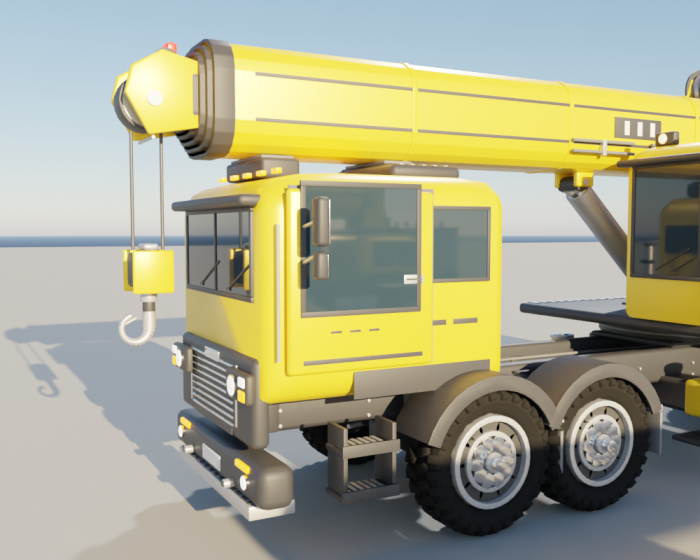
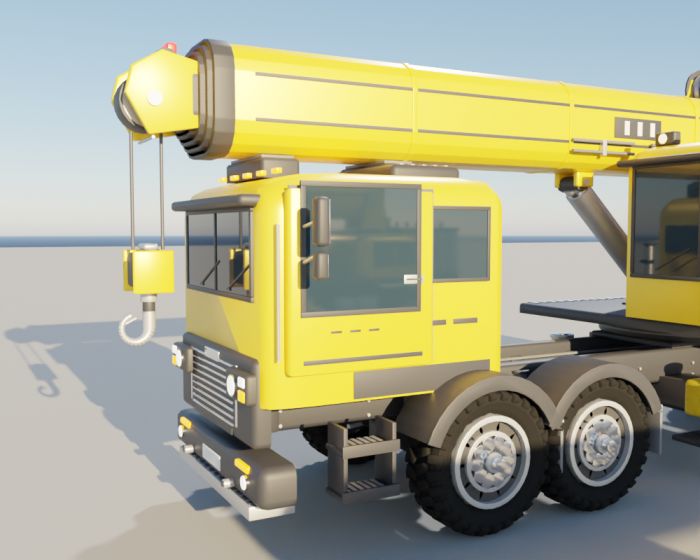
Zeriav: diely, ktore lezia na inych dieloch (kabina, kryt, nasavanie, klimatizacia, zavazie, opierky, podlozky, svetla), maju rovne nezaoblene dosadacie plochy
Claude-Session: https://claude.ai/code/session_01LJyXRKJzkeHGHPvKuFtRQJ

diff --git a/Blender/zeriav_low_poly.py b/Blender/zeriav_low_poly.py
@@ -732,20 +732,53 @@ def slab(bm, pts, t, mat, bev=0.0):
     finish_shape(bm, faces, mat, bev)
 
 
-def loft_rr(bm, stations, mat, n=3):
-    # hladke teleso z priecnych rezov (zaoblenych obdlznikov): stations = [(x, y0, y1, z0, z1, r), ...] od zadu dopredu; konce sa uzavru
-    secs = [(st[0], rounded_rect(st[1], st[2], st[3], st[4], max(st[5], 0.004), n)) for st in stations]
+def rrect4(y0, y1, z0, z1, r_t, r_b, n=3, r_l=None, r_r=None):
+    # obdlznik v YZ s ROZNYMI polomermi hornych (r_t) a spodnych (r_b) rohov; pri r <= 0.004 je roh prakticky ostry (rovna plocha pre dosadnutie)
+    pts = []
+    for cy_s, cz_s, a0, rr in ((1, 1, 0.0, r_t), (-1, 1, 90.0, r_t), (-1, -1, 180.0, r_b), (1, -1, 270.0, r_b)):
+        rr = max(min(rr, (y1 - y0) * 0.5, (z1 - z0) * 0.5), 0.004)
+        cy = (y1 - rr) if cy_s > 0 else (y0 + rr)
+        cz = (z1 - rr) if cz_s > 0 else (z0 + rr)
+        for k in range(n + 1):
+            a = math.radians(a0 + 90.0 * k / n)
+            pts.append((cy + rr * math.cos(a), cz + rr * math.sin(a)))
+    return pts
+
+
+def loft_rr(bm, stations, mat, n=3, flat=""):
+    # hladke teleso z priecnych rezov (zaoblenych obdlznikov): stations = [(x, y0, y1, z0, z1, r), ...] od zadu dopredu; konce sa uzavru;
+    # flat: "b" = spodne hrany ostre (spodna plocha lezi na inom diele), "t" = horne hrany ostre
+    secs = []
+    for st in stations:
+        r = max(st[5], 0.004)
+        secs.append((st[0], rrect4(st[1], st[2], st[3], st[4], 0.004 if "t" in flat else r, 0.004 if "b" in flat else r, n)))
     return loft_yz(bm, secs, mat)
 
 
-def pillow(bm, x0, x1, y0, y1, z0, z1, r, mat, n=3, steps=3):
-    # zaoblene teleso (kvader so zaoblenymi hranami polomeru r, hladke tienovanie): kazda hrana je kruhovy obluk
+def pillow(bm, x0, x1, y0, y1, z0, z1, r, mat, n=3, steps=3, flat=""):
+    # zaoblene teleso (kvader so zaoblenymi hranami polomeru r, hladke tienovanie); flat = plochy, ktore ostanu ROVNE a ostre (dosadaju na iny diel):
+    # "b" spodok, "t" vrch, "l" strana -Y, "r" strana +Y, "a" zadok (-X), "f" predok (+X); zaoblia sa len hrany medzi ostatnymi plochami
     r = min(r, (x1 - x0) * 0.5 - 0.001, (y1 - y0) * 0.5 - 0.001, (z1 - z0) * 0.5 - 0.001)
     ph = [math.pi * 0.5 * k / steps for k in range(steps + 1)]
     ends = [(r * (1.0 - math.cos(p)), r * (1.0 - math.sin(p))) for p in ph]       # (vzdialenost od steny, zmensenie)
-    st = [(x0 + t, y0 + d, y1 - d, z0 + d, z1 - d, r - d) for t, d in ends]
-    st += [(x1 - t, y0 + d, y1 - d, z0 + d, z1 - d, r - d) for t, d in ends[::-1]]
-    return loft_rr(bm, st, mat, n)
+    back = [(0.0, 0.0)] if "a" in flat else ends
+    front = [(0.0, 0.0)] if "f" in flat else ends
+    stations = []
+    for t, d in back:
+        stations.append((x0 + t, d))
+    for t, d in front[::-1]:
+        stations.append((x1 - t, d))
+    out = []
+    for x, d in stations:
+        yy0 = y0 if "l" in flat else y0 + d
+        yy1 = y1 if "r" in flat else y1 - d
+        zz0 = z0 if "b" in flat else z0 + d
+        zz1 = z1 if "t" in flat else z1 - d
+        rr = max(r - d, 0.004)
+        r_t = 0.004 if ("t" in flat or "l" in flat or "r" in flat) else rr
+        r_b = 0.004 if ("b" in flat or "l" in flat or "r" in flat) else rr
+        out.append((x, rrect4(yy0, yy1, zz0, zz1, r_t, r_b, n)))
+    return loft_yz(bm, out, mat)
 
 
 def win_frame(bm, plane, c0, c1, zc, w, h, t, d, off, mat, bev=0.004):
@@ -916,7 +949,7 @@ def build_zr_zakladna(C):
     # zakladna vencoveho loziska: spodny prstenec na ramu, tmavy tesniaci pas, horny prstenec so skrutkami (stoji, otacaju sa diely nad nim)
     bm = bmesh.new()
     r, z0, z1 = C["ring"], C["z1"], C["ring_top"]
-    pillow(bm, -r - 0.05, r + 0.05, -0.66, 0.66, z0, z0 + 0.07, 0.03, FRAME)
+    pillow(bm, -r - 0.05, r + 0.05, -0.66, 0.66, z0, z0 + 0.07, 0.03, FRAME, flat="b")
     add_cylinder(bm, r + 0.03, z1 - z0 - 0.10, along_z((0.0, 0.0, z0 + (z1 - z0 - 0.10) * 0.5 + 0.05)), FRAME, segments=32, bev=0.025)
     add_cylinder(bm, r + 0.04, 0.025, along_z((0.0, 0.0, z0 + (z1 - z0) * 0.55)), PLAST, segments=32)
     add_cylinder(bm, r - 0.05, 0.07, along_z((0.0, 0.0, z1 - 0.035)), STEEL, segments=32, bev=0.01)
@@ -941,7 +974,7 @@ def build_zr_kabina(C):
     bm = bmesh.new()
     x0, xf = C["cab"]
     zf, zr, hw = C["z1"], C["cab_roof"], 1.20
-    loft_rr(bm, cab_stations(C), PAINT_YEL, 4)
+    loft_rr(bm, cab_stations(C), PAINT_YEL, 4, "b")
     zc = (zf + 0.85 + zr - 0.34) * 0.5
     h = zr - 0.34 - zf - 0.85
     add_box(bm, (0.03, 1.80, h), (xf + 0.002, 0.0, zc), GLASS)
@@ -957,10 +990,10 @@ def build_zr_kabina(C):
         bx(bm, x0 + 0.20, xf - 0.80, s * (hw + 0.001), s * (hw + 0.012), zf - 0.04, zf + 0.20, PAINT_BLK, 0.008)       # cierny prah
         for k in range(2):
             bx(bm, x0 + 0.35 + 0.35 * k, x0 + 0.62 + 0.35 * k, s * (hw + 0.001), s * (hw + 0.010), zf + 0.55, zf + 0.60, DARK, 0.004)
-    pillow(bm, xf - 0.10, xf + 0.16, -1.04, 1.04, zr - 0.30, zr - 0.20, 0.04, PAINT_BLK)               # clona nad celnym sklom
+    pillow(bm, xf - 0.10, xf + 0.16, -1.04, 1.04, zr - 0.30, zr - 0.20, 0.04, PAINT_BLK, flat="a")               # clona nad celnym sklom
     for k in range(5):
         add_box(bm, (0.05, 0.13, 0.045), (xf - 0.30, -0.72 + 0.36 * k, zr + 0.02), LAMP_OR, bev=0.008)    # obrysove svetla na streche
-    pillow(bm, x0 + 0.12, x0 + 0.92, -0.62, 0.62, zr - 0.01, zr + 0.14, 0.06, PAINT_BLK)               # klimatizacia
+    pillow(bm, x0 + 0.12, x0 + 0.92, -0.62, 0.62, zr - 0.01, zr + 0.14, 0.06, PAINT_BLK, flat="b")               # klimatizacia
     for k in range(5):
         bx(bm, x0 + 0.20 + 0.13 * k, x0 + 0.24 + 0.13 * k, -0.50, 0.50, zr + 0.14, zr + 0.155, STEEL, 0.003)
     for s in (-0.45, 0.35):
@@ -974,7 +1007,7 @@ def build_zr_dvere(C):
     # dvere nosica (lave; prave je zrkadlo), pivot na zavese pri prednej hrane (y = 1.20, z = podlaha kabiny); dvere siahaju do -X
     bm = bmesh.new()
     top = C["cab_roof"] - C["z1"] - 0.16
-    pillow(bm, -1.42, -0.02, 0.0, 0.07, 0.22, top, 0.035, PAINT_YEL, 3, 2)
+    pillow(bm, -1.42, -0.02, 0.0, 0.07, 0.22, top, 0.035, PAINT_YEL, 3, 2, "l")
     h = top - 0.22 - 0.50
     zc = 0.22 + 0.50 + h * 0.5 + 0.02
     add_box(bm, (1.06, 0.02, h), (-0.70, 0.072, zc), GLASS)
@@ -991,11 +1024,11 @@ def build_zr_maska(C):
     # predna maska kabiny (cierna): panel s chromovymi lamelami a znackou, spodny dych a drziak znacky
     bm = bmesh.new()
     xf, zf = C["cab"][1], C["z1"]
-    pillow(bm, xf - 0.10, xf + 0.06, -1.06, 1.06, zf - 0.42, zf + 0.34, 0.06, PAINT_BLK)
+    pillow(bm, xf - 0.10, xf + 0.06, -1.06, 1.06, zf - 0.42, zf + 0.34, 0.06, PAINT_BLK, flat="a")
     for k in range(9):
         add_rod(bm, (xf + 0.065, -0.60, zf - 0.30 + 0.065 * k), (xf + 0.065, 0.60, zf - 0.30 + 0.065 * k), 0.012, CHROME, segments=6)
-    pillow(bm, xf + 0.04, xf + 0.075, -0.20, 0.20, zf + 0.20, zf + 0.30, 0.012, CHROME)
-    pillow(bm, xf + 0.03, xf + 0.07, -0.55, 0.55, zf - 0.40, zf - 0.30, 0.012, DARK)
+    pillow(bm, xf + 0.04, xf + 0.075, -0.20, 0.20, zf + 0.20, zf + 0.30, 0.012, CHROME, flat="a")
+    pillow(bm, xf + 0.03, xf + 0.07, -0.55, 0.55, zf - 0.40, zf - 0.30, 0.012, DARK, flat="a")
     for s in SIDES_LR:
         bx(bm, xf + 0.04, xf + 0.068, s * 0.64, s * 0.68, zf - 0.30, zf + 0.24, CHROME, 0.006)
     return finish_mesh(bm, "SM_Zr_maska_" + C["key"])
@@ -1004,11 +1037,11 @@ def build_zr_maska(C):
 def build_zr_svetlomet():
     # predne svetlo (lave; prave je zrkadlo): zaoblene puzdro, hlavne svetlo s chromovym prstencom, smerovka, denne svetlo
     bm = bmesh.new()
-    pillow(bm, 0.0, 0.09, -0.26, 0.26, -0.13, 0.13, 0.035, DARK)
+    pillow(bm, 0.0, 0.09, -0.26, 0.26, -0.13, 0.13, 0.035, DARK, flat="a")
     add_cylinder(bm, 0.095, 0.03, along_x((0.095, -0.05, 0.0)), CHROME, segments=18)
     add_cylinder(bm, 0.082, 0.035, along_x((0.10, -0.05, 0.0)), LAMP_WHITE, segments=18, bev=0.006)
-    pillow(bm, 0.07, 0.105, 0.10, 0.23, -0.10, -0.01, 0.012, LAMP_OR)
-    pillow(bm, 0.07, 0.105, 0.10, 0.23, 0.02, 0.10, 0.012, LAMP_WHITE)
+    pillow(bm, 0.07, 0.105, 0.10, 0.23, -0.10, -0.01, 0.012, LAMP_OR, flat="a")
+    pillow(bm, 0.07, 0.105, 0.10, 0.23, 0.02, 0.10, 0.012, LAMP_WHITE, flat="a")
     return bm
 
 
@@ -1016,7 +1049,7 @@ def build_zr_naraznik_predny(C):
     # predny naraznik: zaoblene ocelove teleso s nastupnym rostom, vlecne oka, hmlovky, smerovky a drziak znacky
     bm = bmesh.new()
     xf = C["front"]
-    pillow(bm, xf - 0.24, xf + 0.08, -1.26, 1.26, 0.52, 0.88, 0.09, PAINT_BLK)
+    pillow(bm, xf - 0.24, xf + 0.08, -1.26, 1.26, 0.52, 0.88, 0.09, PAINT_BLK, flat="a")
     bx(bm, xf - 0.32, xf + 0.10, -1.05, 1.05, 0.40, 0.52, STEEL, 0.015)
     for k in range(14):
         bx(bm, xf - 0.30, xf + 0.08, -1.0 + 0.15 * k, -0.95 + 0.15 * k, 0.52, 0.535, DARK, 0.003)
@@ -1025,8 +1058,8 @@ def build_zr_naraznik_predny(C):
         add_cylinder(bm, 0.025, 0.12, along_x((xf + 0.12, s * 0.60, 0.60)), DARK, segments=8)
         add_cylinder(bm, 0.065, 0.03, along_x((xf + 0.095, s * 0.95, 0.70)), CHROME, segments=14)
         add_cylinder(bm, 0.055, 0.035, along_x((xf + 0.10, s * 0.95, 0.70)), LAMP_WHITE, segments=14)
-        pillow(bm, xf + 0.06, xf + 0.10, *zr_sy(s, 0.70, 1.00), 0.78, 0.84, 0.015, LAMP_OR)
-    pillow(bm, xf + 0.06, xf + 0.09, -0.26, 0.26, 0.60, 0.74, 0.012, WHITE)
+        pillow(bm, xf + 0.06, xf + 0.10, *zr_sy(s, 0.70, 1.00), 0.78, 0.84, 0.015, LAMP_OR, flat="a")
+    pillow(bm, xf + 0.06, xf + 0.09, -0.26, 0.26, 0.60, 0.74, 0.012, WHITE, flat="a")
     return finish_mesh(bm, "SM_Zr_naraznik_predny_" + C["key"])
 
 
@@ -1036,9 +1069,9 @@ def build_zr_zrkadlo():
     add_rod(bm, (0.0, 0.0, 0.10), (0.0, 0.36, 0.16), 0.016, STEEL, segments=6)
     add_rod(bm, (0.0, 0.0, -0.20), (0.0, 0.36, -0.10), 0.016, STEEL, segments=6)
     pillow(bm, -0.055, 0.055, 0.34, 0.47, -0.04, 0.34, 0.035, PAINT_BLK)
-    pillow(bm, -0.058, -0.045, 0.355, 0.455, -0.02, 0.32, 0.005, CHROME)
+    pillow(bm, -0.058, -0.045, 0.355, 0.455, -0.02, 0.32, 0.005, CHROME, flat="f")
     pillow(bm, -0.05, 0.05, 0.34, 0.45, -0.30, -0.08, 0.03, PAINT_BLK)
-    pillow(bm, -0.053, -0.042, 0.355, 0.435, -0.28, -0.10, 0.005, CHROME)
+    pillow(bm, -0.053, -0.042, 0.355, 0.435, -0.28, -0.10, 0.005, CHROME, flat="f")
     return bm
 
 
@@ -1071,9 +1104,9 @@ def build_zr_nadrz(C):
 def build_zr_skrinka(C):
     # naradova skrinka (prava strana): zaoblene teleso s vekom, dvierkami a zamkami
     bm = bmesh.new()
-    pillow(bm, -0.65, 0.65, -0.24, 0.24, -0.26, 0.26, 0.04, PAINT_BLK)
+    pillow(bm, -0.65, 0.65, -0.24, 0.24, -0.26, 0.26, 0.04, PAINT_BLK, flat="t")
     for k in range(2):
-        pillow(bm, -0.60 + 0.62 * k, -0.04 + 0.62 * k, -0.252, -0.236, -0.22, 0.20, 0.006, GALV)
+        pillow(bm, -0.60 + 0.62 * k, -0.04 + 0.62 * k, -0.252, -0.236, -0.22, 0.20, 0.006, GALV, flat="r")
         bx(bm, -0.18 + 0.62 * k, -0.12 + 0.62 * k, -0.262, -0.250, -0.04, 0.04, STEEL, 0.004)
     bx(bm, -0.62, 0.62, -0.25, -0.235, 0.20, 0.23, PAINT_BLK, 0.006)
     return finish_mesh(bm, "SM_Zr_skrinka_" + C["key"])
@@ -1172,7 +1205,7 @@ def build_zr_podpera_nosnik(C):
     bm = bmesh.new()
     zc = C["z0"] - 0.10
     hh = zr_hh(C)
-    pillow(bm, -0.24, 0.24, -hh, hh, zc - 0.18, zc + 0.18, 0.05, FRAME)
+    pillow(bm, -0.24, 0.24, -hh, hh, zc - 0.18, zc + 0.18, 0.05, FRAME, flat="t")
     for s in SIDES_LR:
         bx(bm, -0.26, 0.26, *zr_sy(s, hh - 0.04, hh + 0.02), zc - 0.20, zc + 0.20, STEEL, 0.012)
         for dx in (-0.15, 0.15):
@@ -1212,7 +1245,7 @@ def build_zr_podpera_valec(C):
 def build_zr_podpera_tyc(C):
     # piest podpery s podlozkou (pivot na spodku podlozky, tyc stupa nahor): chromovy piest, klbova hlava, zaoblena podlozka s rebrami
     bm = bmesh.new()
-    pillow(bm, -0.34, 0.34, -0.34, 0.34, 0.0, 0.055, 0.02, PAINT_BLK)
+    pillow(bm, -0.34, 0.34, -0.34, 0.34, 0.0, 0.055, 0.02, PAINT_BLK, flat="b")
     for k in range(5):
         bx(bm, -0.30 + 0.15 * k, -0.27 + 0.15 * k, -0.30, 0.30, 0.0, 0.065, PAINT_BLK, 0.004)
     lr = C["z0"] + C["lift"] - 0.28
@@ -1228,8 +1261,8 @@ def build_zr_opierka(C):
     zr = C["cab_roof"]
     top = C["ring_top"] + C["piv"][2] - C["boom_h"][0] * 0.5          # spodok ramena v polohe 0 st.
     for x in (xf - 0.60, x0 + 0.50):
-        pillow(bm, x - 0.20, x + 0.20, C["piv"][1] - 0.52, C["piv"][1] + 0.52, zr, top - 0.03, 0.04, PAINT_BLK)
-        pillow(bm, x - 0.17, x + 0.17, C["piv"][1] - 0.44, C["piv"][1] + 0.44, top - 0.035, top, 0.012, PLAST)
+        pillow(bm, x - 0.20, x + 0.20, C["piv"][1] - 0.52, C["piv"][1] + 0.52, zr, top - 0.03, 0.04, PAINT_BLK, flat="b")
+        pillow(bm, x - 0.17, x + 0.17, C["piv"][1] - 0.44, C["piv"][1] + 0.44, top - 0.035, top, 0.012, PLAST, flat="t")
     return finish_mesh(bm, "SM_Zr_opierka_" + C["key"])
 
 
@@ -1237,7 +1270,7 @@ def build_zr_naraznik_zadny(C):
     # zadny naraznik s ochranou proti podbehnutiu, nastupnym plechom a odrazkami
     bm = bmesh.new()
     xr = C["f_rear"]
-    pillow(bm, xr - 0.30, xr + 0.02, -1.16, 1.16, C["z0"] - 0.10, C["z0"] + 0.28, 0.07, PAINT_BLK)
+    pillow(bm, xr - 0.30, xr + 0.02, -1.16, 1.16, C["z0"] - 0.10, C["z0"] + 0.28, 0.07, PAINT_BLK, flat="f")
     bx(bm, xr - 0.34, xr - 0.28, -0.60, 0.60, C["z0"] + 0.22, C["z0"] + 0.30, STEEL, 0.01)
     for s in SIDES_LR:
         bx(bm, xr - 0.315, xr - 0.285, *zr_sy(s, 0.85, 1.10), C["z0"] + 0.00, C["z0"] + 0.12, RED, 0.004)
@@ -1248,7 +1281,7 @@ def build_zr_naraznik_zadny(C):
 def build_zr_svetlo_zadne():
     # zadne svetlo (lave; prave je zrkadlo): vodorovne zaoblene puzdro so styrmi okruhlymi sklami
     bm = bmesh.new()
-    pillow(bm, -0.03, 0.03, -0.24, 0.24, -0.07, 0.07, 0.025, DARK)
+    pillow(bm, -0.03, 0.03, -0.24, 0.24, -0.07, 0.07, 0.025, DARK, flat="f")
     for dy, mat in ((0.17, LAMP_RED), (0.057, LAMP_OR), (-0.057, LAMP_WHITE), (-0.17, LAMP_RED)):
         add_cylinder(bm, 0.045, 0.014, along_x((-0.03, dy, 0.0)), mat, segments=16, bev=0.004)
     return bm
@@ -1321,7 +1354,7 @@ def build_zr_plosina(C):
     # plosina nadstavby: zaoblena doska, spodna sukna k vencu, protisklzove listy, zabradlie z rur (stlpiky, horna a stredna trubka, ohyby) s lemom
     bm = bmesh.new()
     d0, d1, hw = zr_deck0(C), C["deck_f"], C["hw"]
-    pillow(bm, d0, d1, -hw, hw, 0.0, 0.14, 0.05, PAINT_BLK)
+    pillow(bm, d0, d1, -hw, hw, 0.0, 0.14, 0.05, PAINT_BLK, flat="b")
     add_cylinder(bm, C["ring"] - 0.05, 0.10, along_z((0.0, 0.0, -0.03)), STEEL, segments=32)
     for k in range(int((d1 - 0.8 - C["cw_front"]) / 0.16)):
         x = C["cw_front"] + 0.9 + 0.16 * k
@@ -1352,26 +1385,26 @@ def build_zr_kryt(C):
     ztop = z0 + h
     st = [(x0, hw - 0.10, ztop - 0.40, 0.12), (x0 + 0.05, hw - 0.04, ztop - 0.22, 0.18), (x0 + 0.30, hw - 0.01, ztop - 0.05, 0.22), (x0 + 0.70, hw, ztop, 0.24),
           (x1 - 0.30, hw, ztop, 0.24), (x1 - 0.08, hw - 0.02, ztop - 0.05, 0.20), (x1, hw - 0.07, ztop - 0.16, 0.12)]
-    loft_rr(bm, [(x, -w, w, z0, top, r) for x, w, top, r in st], PAINT_YEL, 4)
+    loft_rr(bm, [(x, -w, w, z0, top, r) for x, w, top, r in st], PAINT_YEL, 4, "b")
     for s in SIDES_LR:
         npan = 2 if (x1 - x0) < 2.5 else 3
         pitch = (x1 - x0 - 0.80) / npan
         for k in range(npan):
             xm = x0 + 0.40 + pitch * (k + 0.5)
             pw = pitch * 0.5 - 0.05
-            pillow(bm, xm - pw, xm + pw, *zr_sy(s, hw - 0.002, hw + 0.035), z0 + h * 0.27, z0 + h * 0.80, 0.02, PAINT_BLK)
+            pillow(bm, xm - pw, xm + pw, *zr_sy(s, hw - 0.002, hw + 0.035), z0 + h * 0.27, z0 + h * 0.80, 0.02, PAINT_BLK, flat="l" if s > 0 else "r")
             for j in range(6):
                 zz = z0 + h * 0.31 + j * 0.075 * h
                 bx(bm, xm - pw + 0.03, xm + pw - 0.03, *zr_sy(s, hw + 0.03, hw + 0.05), zz, zz + 0.022, STEEL, 0.004)
             bx(bm, xm - pitch * 0.5, xm - pitch * 0.5 + 0.012, *zr_sy(s, hw - 0.003, hw + 0.004), z0 + 0.10, ztop - 0.14, DARK, 0.002)        # sparovka dvierok
         add_cylinder(bm, 0.025, 0.05, along_y((x0 + 0.55, s * (hw + 0.025), z0 + h * 0.18)), STEEL, segments=8)
         add_cylinder(bm, 0.025, 0.05, along_y((x1 - 0.55, s * (hw + 0.025), z0 + h * 0.18)), STEEL, segments=8)
-    pillow(bm, x0 + 0.55, x0 + 1.15, -hw + 0.55, -hw + 1.15, ztop - 0.02, ztop + 0.16, 0.05, PAINT_BLK)       # nasavanie vzduchu
+    pillow(bm, x0 + 0.55, x0 + 1.15, -hw + 0.55, -hw + 1.15, ztop - 0.02, ztop + 0.16, 0.05, PAINT_BLK, flat="b")       # nasavanie vzduchu
     add_cylinder(bm, 0.11, 0.30, along_z((x0 + 0.85, -hw + 0.85, ztop + 0.28)), GALV, segments=14, bev=0.01)
     add_cylinder(bm, 0.07, 0.75, along_z((x0 + 0.55, hw - 0.28, ztop + 0.30)), STEEL, segments=12, bev=0.005)
     add_cylinder(bm, 0.10, 0.45, along_z((x0 + 0.55, hw - 0.28, ztop + 0.22)), GALV, segments=12, bev=0.008)
     add_cylinder(bm, 0.095, 0.04, along_z((x0 + 0.55, hw - 0.28, ztop + 0.69)), DARK, segments=12)
-    pillow(bm, x1 - 0.85, x1 - 0.15, -hw + 0.25, hw - 0.25, ztop - 0.01, ztop + 0.10, 0.04, PAINT_BLK)       # chladic nad kabinou
+    pillow(bm, x1 - 0.85, x1 - 0.15, -hw + 0.25, hw - 0.25, ztop - 0.01, ztop + 0.10, 0.04, PAINT_BLK, flat="b")       # chladic nad kabinou
     for k in range(6):
         bx(bm, x1 - 0.80 + 0.1 * k, x1 - 0.76 + 0.1 * k, -hw + 0.35, hw - 0.35, ztop + 0.10, ztop + 0.12, STEEL, 0.003)
     return finish_mesh(bm, "SM_Zr_kryt_" + C["key"])
@@ -1383,7 +1416,7 @@ def build_zr_zavazie(C, k):
     xa = C["cw_front"] - 0.34 * k
     hw = C["hw"] - 0.05
     zt = 0.14 + C["cw_h"]
-    pillow(bm, xa - 0.33, xa - 0.01, -hw, hw, 0.14, zt, 0.05, CWT)
+    pillow(bm, xa - 0.33, xa - 0.01, -hw, hw, 0.14, zt, 0.05, CWT, flat="bf")
     for s in SIDES_LR:
         for z in (0.14, zt - 0.10):
             bx(bm, xa - 0.325, xa - 0.015, *zr_sy(s, hw - 0.01, hw + 0.012), z, z + 0.10, PAINT_BLK, 0.008)
@@ -1409,7 +1442,7 @@ def build_zr_kabina_zerava(C):
     hwc = (y1 - y0) * 0.5
     st = [(x0, hwc - 0.08, zt - 0.24, 0.10), (x0 + 0.05, hwc - 0.02, zt - 0.08, 0.14), (x0 + 0.22, hwc, zt - 0.01, 0.16), (x0 + 0.55, hwc, zt, 0.18),
           (x1 - 0.55, hwc, zt, 0.18), (x1 - 0.25, hwc, zt - 0.02, 0.18), (x1 - 0.08, hwc - 0.02, zt - 0.08, 0.15), (x1, hwc - 0.06, zt - 0.20, 0.10)]
-    loft_rr(bm, [(x, yc - w, yc + w, z0, top, r) for x, w, top, r in st], PAINT_YEL, 4)
+    loft_rr(bm, [(x, yc - w, yc + w, z0, top, r) for x, w, top, r in st], PAINT_YEL, 4, "b")
     # celne sklo
     gz0, gz1 = z0 + 0.52, zt - 0.28
     gw = hwc * 2.0 - 0.36
@@ -1421,8 +1454,8 @@ def build_zr_kabina_zerava(C):
         win_frame(bm, "Y", (x0 + x1) * 0.5 - 0.22, ya, (gz0 + gz1) * 0.5 + 0.04, x1 - x0 - 0.62, gz1 - gz0 + 0.08, 0.045, 0.03, sgn * 0.004, PAINT_BLK)
         bx(bm, x0 + 0.15, x1 - 0.30, *((ya + 0.0, ya + sgn * 0.012) if sgn > 0 else (ya - 0.012, ya)), z0, z0 + 0.34, PAINT_BLK, 0.008)
     add_box(bm, (0.78, gw - 0.20, 0.025), ((x0 + x1) * 0.5 - 0.15, yc, zt + 0.004), GLASS)
-    pillow(bm, x1 - 0.18, x1 + 0.12, yc - hwc - 0.04, yc + hwc + 0.04, zt - 0.25, zt - 0.17, 0.035, PAINT_BLK)       # clona
-    pillow(bm, x0 + 0.20, x0 + 0.80, yc - 0.40, yc + 0.40, zt - 0.005, zt + 0.10, 0.04, PAINT_BLK)
+    pillow(bm, x1 - 0.18, x1 + 0.12, yc - hwc - 0.04, yc + hwc + 0.04, zt - 0.25, zt - 0.17, 0.035, PAINT_BLK, flat="a")       # clona
+    pillow(bm, x0 + 0.20, x0 + 0.80, yc - 0.40, yc + 0.40, zt - 0.005, zt + 0.10, 0.04, PAINT_BLK, flat="b")
     for sgn in (-1.0, 1.0):
         add_rod(bm, (x1 + 0.02, yc + sgn * 0.12, gz0 + 0.05), (x1 + 0.02, yc + sgn * 0.12 + 0.45, gz0 + 0.30), 0.010, DARK, segments=5)       # stierace
         add_rod(bm, (x1 - 0.12, yc + sgn * (hwc + 0.025), z0 + 0.3), (x1 - 0.12, yc + sgn * (hwc + 0.025), zt - 0.5), 0.014, STEEL, segments=6)    # madla
@@ -1435,7 +1468,7 @@ def build_zr_dvere_zerava(C):
     x0, x1 = C["ucab"]
     h = C["ucab_h"]
     wd = (x1 - x0) * 0.58
-    pillow(bm, -wd, -0.02, 0.0, 0.05, 0.42, h - 0.12, 0.025, PAINT_YEL, 3, 2)
+    pillow(bm, -wd, -0.02, 0.0, 0.05, 0.42, h - 0.12, 0.025, PAINT_YEL, 3, 2, "l")
     h2 = h - 0.12 - 0.42 - 0.26
     add_box(bm, (wd - 0.22, 0.02, h2), (-wd * 0.5, 0.055, 0.42 + 0.14 + h2 * 0.5), GLASS)
     win_frame(bm, "Y", -wd * 0.5, 0.05, 0.42 + 0.14 + h2 * 0.5, wd - 0.22, h2, 0.04, 0.03, 0.004, PAINT_BLK)
@@ -1450,17 +1483,17 @@ def build_zr_pult(C):
     y0, y1 = zr_cab_y(C)
     xm, ym = (x0 + x1) * 0.5 - 0.15, (y0 + y1) * 0.5
     z0 = 0.14
-    pillow(bm, xm - 0.28, xm + 0.18, ym - 0.24, ym + 0.24, z0 + 0.36, z0 + 0.46, 0.04, SEAT)
-    pillow(bm, xm - 0.31, xm - 0.19, ym - 0.24, ym + 0.24, z0 + 0.42, z0 + 1.00, 0.05, SEAT)
-    pillow(bm, xm - 0.30, xm - 0.20, ym - 0.14, ym + 0.14, z0 + 1.00, z0 + 1.18, 0.04, SEAT)
+    pillow(bm, xm - 0.28, xm + 0.18, ym - 0.24, ym + 0.24, z0 + 0.36, z0 + 0.46, 0.04, SEAT, flat="b")
+    pillow(bm, xm - 0.31, xm - 0.19, ym - 0.24, ym + 0.24, z0 + 0.42, z0 + 1.00, 0.05, SEAT, flat="b")
+    pillow(bm, xm - 0.30, xm - 0.20, ym - 0.14, ym + 0.14, z0 + 1.00, z0 + 1.18, 0.04, SEAT, flat="b")
     bx(bm, xm - 0.06, xm + 0.04, ym - 0.06, ym + 0.06, z0, z0 + 0.36, DARK, 0.01)
     bx(bm, xm - 0.20, xm + 0.14, ym - 0.19, ym + 0.19, z0 + 0.20, z0 + 0.24, DARK, 0.01)
     for s in SIDES_LR:
-        pillow(bm, xm - 0.20, xm + 0.28, ym + s * 0.30 - 0.05, ym + s * 0.30 + 0.05, z0 + 0.46, z0 + 0.58, 0.03, DARK)
+        pillow(bm, xm - 0.20, xm + 0.28, ym + s * 0.30 - 0.05, ym + s * 0.30 + 0.05, z0 + 0.46, z0 + 0.58, 0.03, DARK, flat="b")
         add_cylinder(bm, 0.012, 0.18, along_z((xm + 0.18, ym + s * 0.30, z0 + 0.67)), STEEL, segments=6)
         add_cylinder(bm, 0.025, 0.06, along_z((xm + 0.18, ym + s * 0.30, z0 + 0.78)), DARK, segments=8, bev=0.008)
-    pillow(bm, x1 - 0.42, x1 - 0.12, y0 + 0.20, y1 - 0.20, z0, z0 + 0.62, 0.04, INT)
-    pillow(bm, x1 - 0.36, x1 - 0.28, ym - 0.30, ym + 0.30, z0 + 0.62, z0 + 0.84, 0.02, INT)
+    pillow(bm, x1 - 0.42, x1 - 0.12, y0 + 0.20, y1 - 0.20, z0, z0 + 0.62, 0.04, INT, flat="b")
+    pillow(bm, x1 - 0.36, x1 - 0.28, ym - 0.30, ym + 0.30, z0 + 0.62, z0 + 0.84, 0.02, INT, flat="b")
     bx(bm, x1 - 0.285, x1 - 0.275, ym - 0.18, ym + 0.18, z0 + 0.66, z0 + 0.80, LAMP_WHITE)
     return finish_mesh(bm, "SM_Zr_pult_" + C["key"])
 
@@ -1481,8 +1514,8 @@ def build_zr_konzoly(C):
     add_cylinder(bm, 0.07, b1 + 0.34, along_y((px, py, pz)), STEEL, segments=16, bev=0.004)
     cx = px + 1.5
     for s in SIDES_LR:
-        pillow(bm, cx - 0.20, cx + 0.20, py + s * 0.17 - 0.045, py + s * 0.17 + 0.045, 0.14, 0.40, 0.025, PAINT_YEL)
-    pillow(bm, cx - 0.30, cx + 0.30, py - 0.30, py + 0.30, 0.10, 0.17, 0.02, PAINT_BLK)
+        pillow(bm, cx - 0.20, cx + 0.20, py + s * 0.17 - 0.045, py + s * 0.17 + 0.045, 0.14, 0.40, 0.025, PAINT_YEL, flat="b")
+    pillow(bm, cx - 0.30, cx + 0.30, py - 0.30, py + 0.30, 0.10, 0.17, 0.02, PAINT_BLK, flat="b")
     return finish_mesh(bm, "SM_Zr_konzoly_" + C["key"])
 
 
@@ -1498,7 +1531,7 @@ def build_zr_majak():
 def build_zr_svetlo_pracovne():
     # pracovne svetlo (biele sklo v zaobleno puzdre s ochrannym ramikom; pivot v strede zadnej steny)
     bm = bmesh.new()
-    pillow(bm, 0.0, 0.11, -0.14, 0.14, -0.08, 0.08, 0.03, DARK)
+    pillow(bm, 0.0, 0.11, -0.14, 0.14, -0.08, 0.08, 0.03, DARK, flat="a")
     add_cylinder(bm, 0.062, 0.03, along_x((0.115, 0.0, 0.0)), CHROME, segments=16)
     add_cylinder(bm, 0.052, 0.034, along_x((0.118, 0.0, 0.0)), LAMP_WHITE, segments=16, bev=0.004)
     return finish_mesh(bm, "SM_Zr_svetlo_pracovne")
@@ -1558,8 +1591,8 @@ def build_zr_vitel_podstava(C):
         add_extruded(bm, [(0.20, h1 * 0.5), (0.95, h1 * 0.5), (0.80, h1 * 0.5 + 0.42), (0.35, h1 * 0.5 + 0.42)],
                      s * (b1 * 0.5 - 0.06) - 0.03, s * (b1 * 0.5 - 0.06) + 0.03, "XZ", PAINT_YEL, bev=0.02)
         add_cylinder(bm, 0.06, 0.14, along_y((0.575, s * (b1 * 0.5 - 0.06), h1 * 0.5 + 0.26)), STEEL, segments=12, bev=0.006)
-    pillow(bm, 0.20, 0.95, -b1 * 0.5 + 0.10, b1 * 0.5 - 0.10, h1 * 0.5, h1 * 0.5 + 0.035, 0.012, PAINT_BLK)
-    pillow(bm, 0.30, 0.55, b1 * 0.5 - 0.04, b1 * 0.5 + 0.10, h1 * 0.5 + 0.08, h1 * 0.5 + 0.34, 0.04, PAINT_BLK)      # prevodovka vitla
+    pillow(bm, 0.20, 0.95, -b1 * 0.5 + 0.10, b1 * 0.5 - 0.10, h1 * 0.5, h1 * 0.5 + 0.035, 0.012, PAINT_BLK, flat="b")
+    pillow(bm, 0.30, 0.55, b1 * 0.5 - 0.04, b1 * 0.5 + 0.10, h1 * 0.5 + 0.08, h1 * 0.5 + 0.34, 0.04, PAINT_BLK, flat="b")      # prevodovka vitla
     return finish_mesh(bm, "SM_Zr_vitel_podstava_" + C["key"])
 
 
@@ -1582,7 +1615,7 @@ def build_zr_hlava(C):
     add_cylinder(bm, 0.07, b + 0.10, along_y((0.30, 0.0, -0.06)), STEEL, segments=12)
     add_cylinder(bm, 0.12, b * 0.4, along_y((0.12, 0.0, h * 0.5 + 0.05)), DARK, segments=16, bev=0.008)
     add_rod(bm, (0.30, -b * 0.5 - 0.02, -0.40), (0.30, b * 0.5 + 0.02, -0.40), 0.016, STEEL, segments=8)
-    pillow(bm, 0.02, 0.12, -0.10, 0.10, h * 0.5 + 0.12, h * 0.5 + 0.22, 0.02, LAMP_RED)                    # svetlo hlavy
+    pillow(bm, 0.02, 0.12, -0.10, 0.10, h * 0.5 + 0.12, h * 0.5 + 0.22, 0.02, LAMP_RED, flat="b")                    # svetlo hlavy
     return finish_mesh(bm, "SM_Zr_hlava_" + C["key"])
 
 

diff --git a/Blender/README.md b/Blender/README.md
@@ -21,7 +21,7 @@ Bez okna: `blender --background --python skript.py`. Do FBX sa exportuje každý
 | `domiesavac_low_poly.py` | domiešavače betónu 4x2 / 6x2 / 8x2 (bubon 4,4 / 5,4 / 6,4 m, asi 7 / 9 / 11 m³): šikmý rotujúci bubon s vonkajšími lopatkami, nasýpka, žľab s predĺžením (odložený pod bubnom alebo pracovná poloha), nádrž na vodu, rebrík |
 | `odtahovky_low_poly.py` | odťahovky na pevnom podvozku, každá v európskom aj americkom štýle: plošinová 4x2 / 6x2 / 8x2 (sklopný podrám, plošina zjazdí šikmo na zem, navijak s hákom vytiahne auto) a ťažká 6x2 / 8x2 (otočný žeriav s hákom, podjazdové rameno, podpery, skrine s dvierkami) |
 | `pickup_vozik_low_poly.py` | dva pickupy (dvojkabína 4 dvere a jednokabína 2 dvere; čierny pruh, ochranný rollbar, svetelná lišta, rúrová ochrana, veľké kolesá, ťažná guľa) a prívesy so spojkou: malý vozík 2,0 / 2,6 m, podval na auto 4,0 / 5,2 m (pevná mriežková paluba, dva výsuvné nájazdy, dvojmontáž kolies, navijak vytiahne auto), vozík na palety 3,0 / 4,2 m s EUR paletami, cisternový vozík 1,5 / 3 m³ (tvar cisterny s klenbami, poklopy a dvierka skrinky s ventilmi sa otvárajú, armatúra v rovnakom rozmere ako na cisternovom návese), vozík na drevo s kmeňmi (4,0 / 6,0 m), skriňový vozík 2,5 / 3,6 m (zadná rampa, bočné dvere); všetko demontovateľné po dieloch (uchyty) |
-| `zeriav_low_poly.py` | autožeriav 40 t (3 nápravy, 4-dielne teleskopické rameno) a 80 t (4 nápravy, 5-dielne rameno), hladké zaoblené karosérie (kabína, kryt motora, protizávažie, ramená), detaily (mriežky, stierače, zrkadlá, hadice, zvary): riadené nápravy, 4 výsuvné podpery, otočná nadstavba s kabínou a protizávažím, rameno na teleskopickom valci zdvihu, kladka, lano a háčikový blok; všetko demontovateľné po dieloch (uchyty) |
+| `zeriav_low_poly.py` | autožeriav 40 t (3 nápravy, 4-dielne teleskopické rameno) a 80 t (4 nápravy, 5-dielne rameno), hladké zaoblené karosérie (kabína, kryt motora, protizávažie, ramená), diely na seba presne dosadajú (spodok dielu, ktorý leží na inom, je rovný a nezaoblený), detaily (mriežky, stierače, zrkadlá, hadice, zvary): riadené nápravy, 4 výsuvné podpery, otočná nadstavba s kabínou a protizávažím, rameno na teleskopickom valci zdvihu, kladka, lano a háčikový blok; všetko demontovateľné po dieloch (uchyty) |
 | `drvic_low_poly.py` | pásový čeľusťový drvič kameňa na štrk: násypka s bočnými klapkami a roštom, vibračný podávač, čeľusťový drvič (pevná a kývajúca sa čeľusť, excentrický hriadeľ so zotrvačníkmi), motorový diel s dvierkami, výstupný pásový dopravník s kameňmi (7,6 m), vodný rozstrek, plošina s rebríkom, hromady (vstup, násypka, štrk); všetko demontovateľné po dieloch (uchyty) |
 | `triedicka_low_poly.py` | pásová triediaca stanica materiálov: násypka s podávacím pásom, vibračné dvojsito, tri výstupné dopravníky (hrubé na osi, stredné vľavo, jemné vpravo) s kameňmi, motorový diel s dvierkami, rozstrek, hromady troch frakcií; všetko demontovateľné po dieloch (uchyty) |
 | `podvozok_low_poly.py`, `nadrz_tocna_low_poly.py` | podvozok kamióna, nádrže a otočná |
